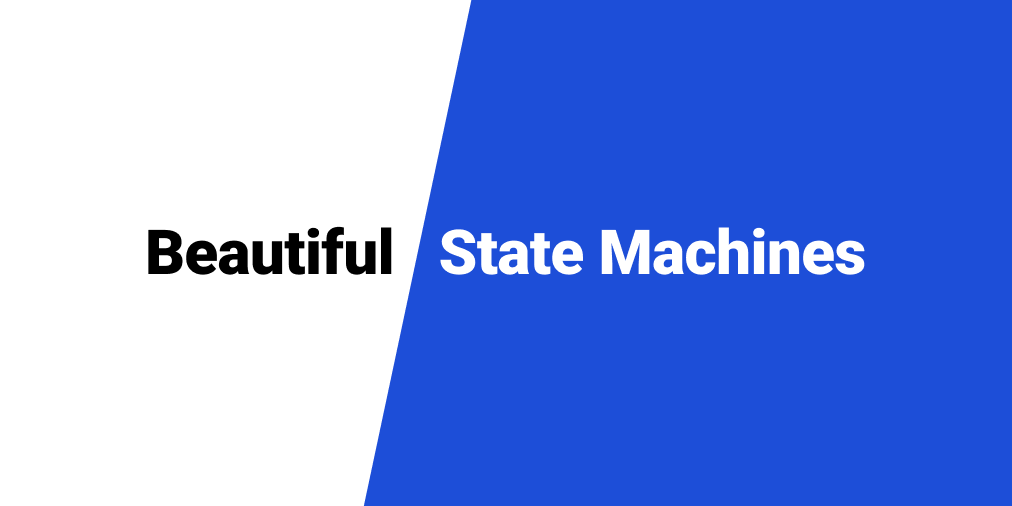
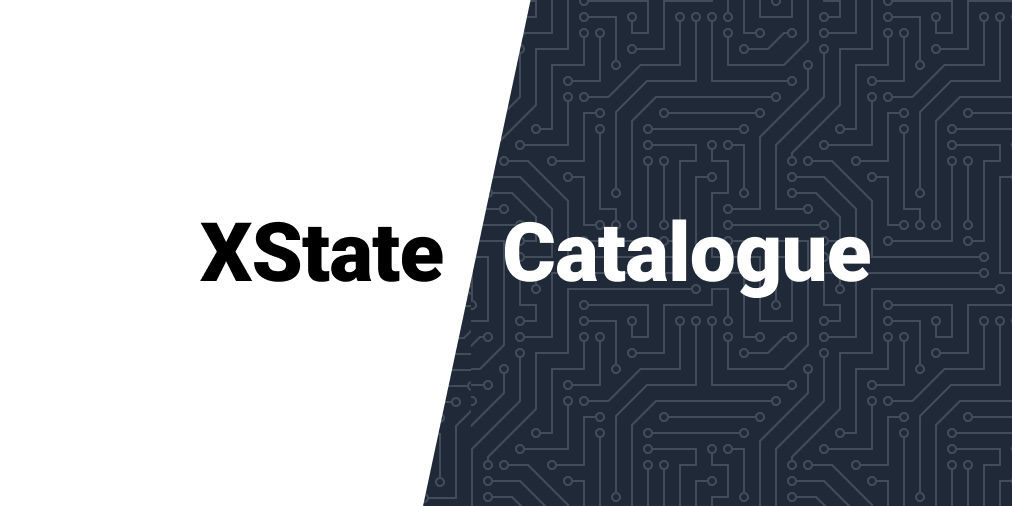
Added og-image.png

diff --git a/pages/_app.tsx b/pages/_app.tsx
@@ -17,7 +17,10 @@ function MyApp({ Component, pageProps }: AppProps) {
         <link rel="canonical" href="https://xstate-catalogue.com" />
         <link rel="icon" type="image/png" href="/favicon.png" />
         <meta property="og:type" content="article" />
-        <meta property="og:title" content="State Machine Catalogue" />
+        <meta
+          property="og:title"
+          content="XState Catalogue - Beautiful State Machines"
+        />
         <meta
           property="og:image"
           content="https://xstate-catalogue.com/og-image.png"
